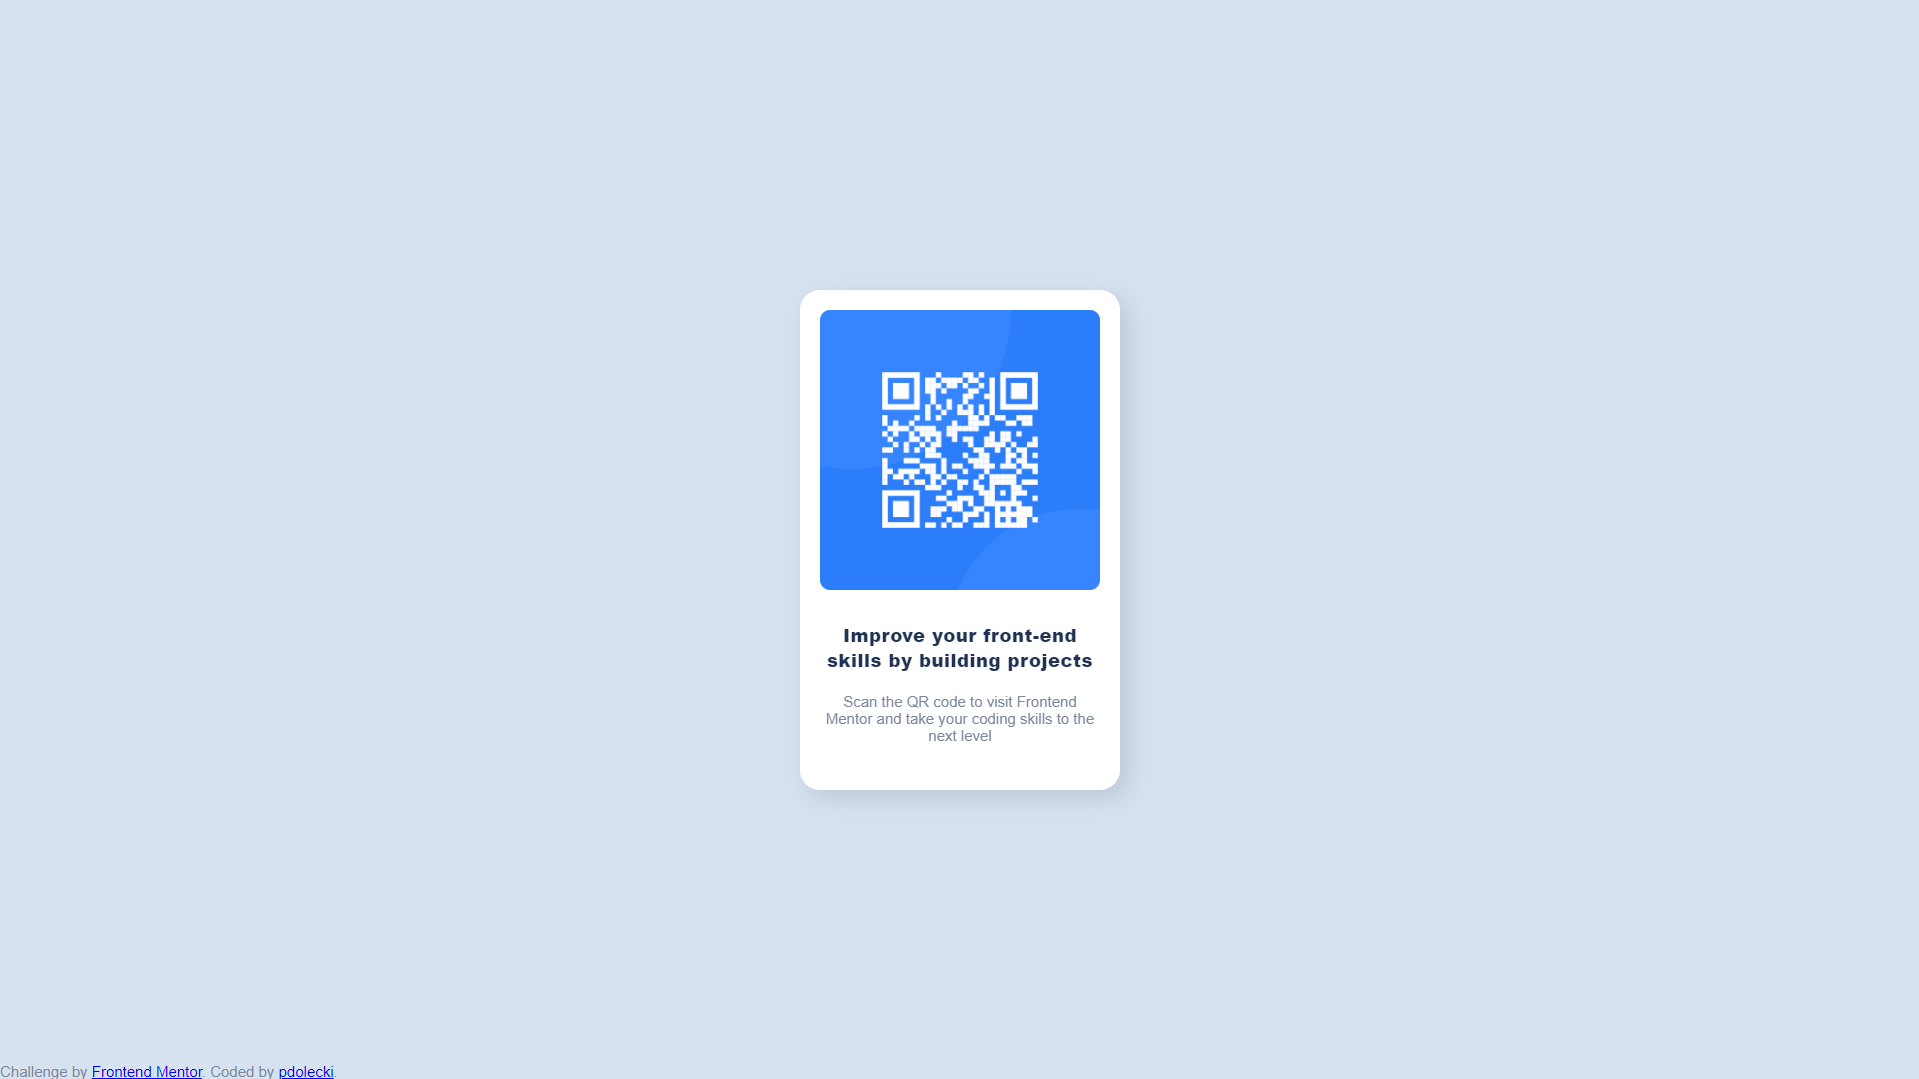
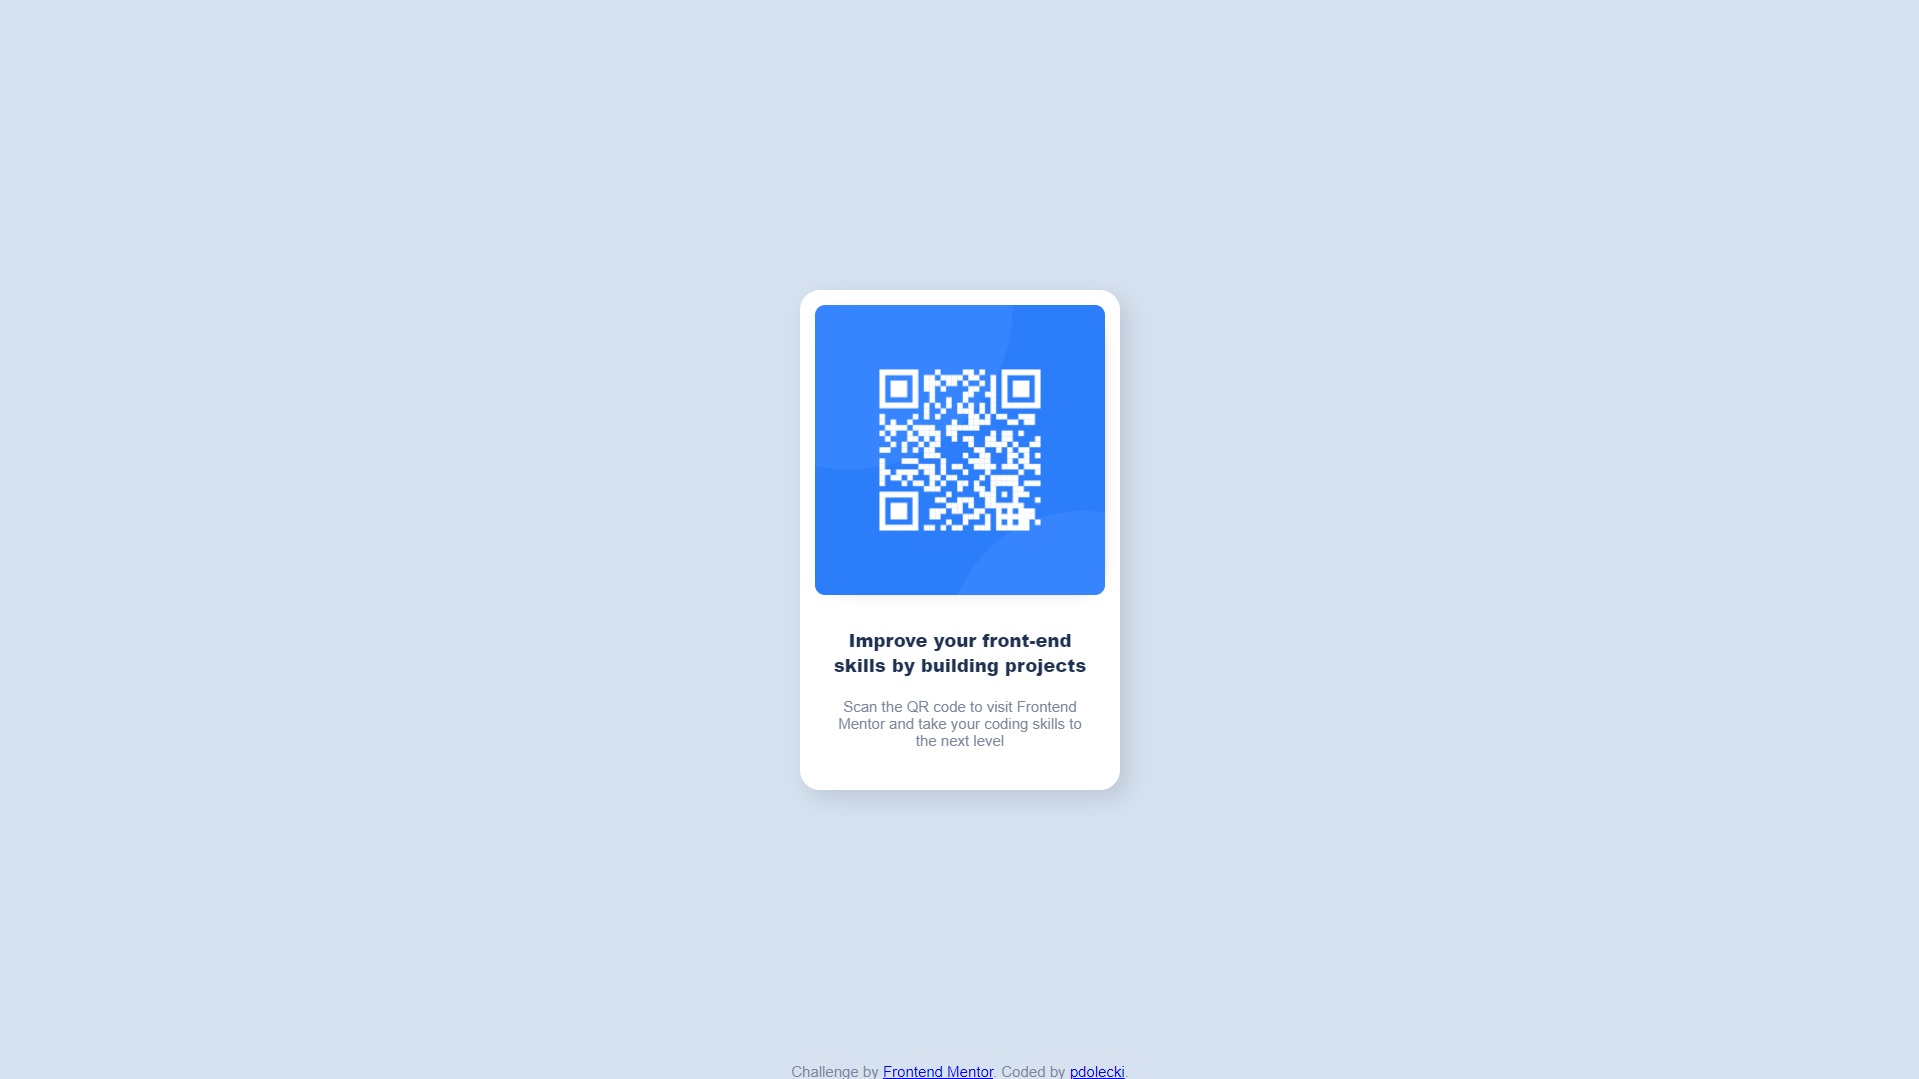
#2:QR-code-component

diff --git a/qr-code-component-main/index.html b/qr-code-component-main/index.html
@@ -36,18 +36,18 @@
       <h3 class="card-title">
         Improve your front-end skills by building projects
       </h3>
-      <p>
+      <p class="card-description">
         Scan the QR code to visit Frontend Mentor and take your coding skills to
         the next level
       </p>
     </div>
-    <div style="position: absolute; bottom: 0">
+    <footer style="position: absolute; bottom: 0">
       Challenge by
       <a href="https://www.frontendmentor.io?ref=challenge" target="_blank"
         >Frontend Mentor</a
       >. Coded by
       <a href="https://pl.linkedin.com/in/pdolecki" target="_blank">pdolecki</a
       >.
-    </div>
+    </footer>
   </body>
 </html>

diff --git a/qr-code-component-main/styles/style.css b/qr-code-component-main/styles/style.css
@@ -8,7 +8,7 @@
   top: 50%;
   left: 50%;
   border-radius: 20px;
-  padding: var(--spacer-large);
+  padding: var(--spacer-big);
   transform: translate(-50%, -50%);
   background-color: var(--color-white);
   box-shadow: 8px 8px 24px 0px rgba(66, 68, 90, 0.18);
@@ -25,4 +25,8 @@
   font-weight: var(--font-weight-bold);
   line-height: var(--line-height-large);
   margin-bottom: var(--spacer-large);
+  padding: 0 var(--spacer-big);
+}
+.card-description {
+  padding: 0 var(--spacer-large);
 }
